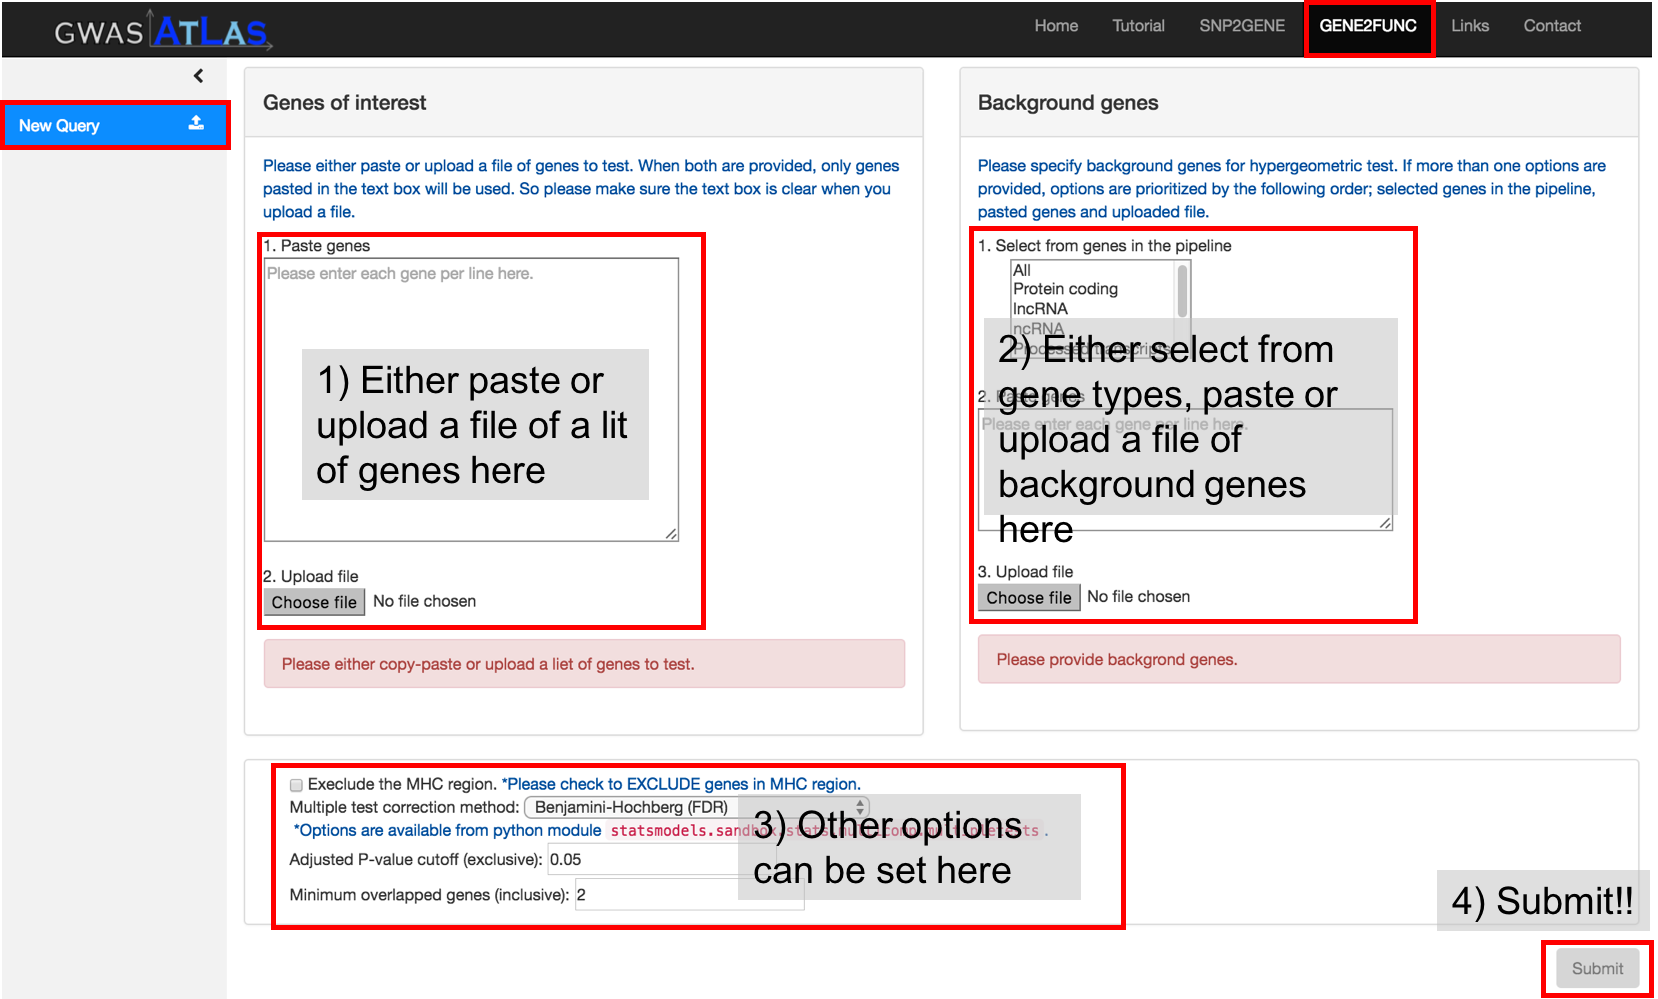
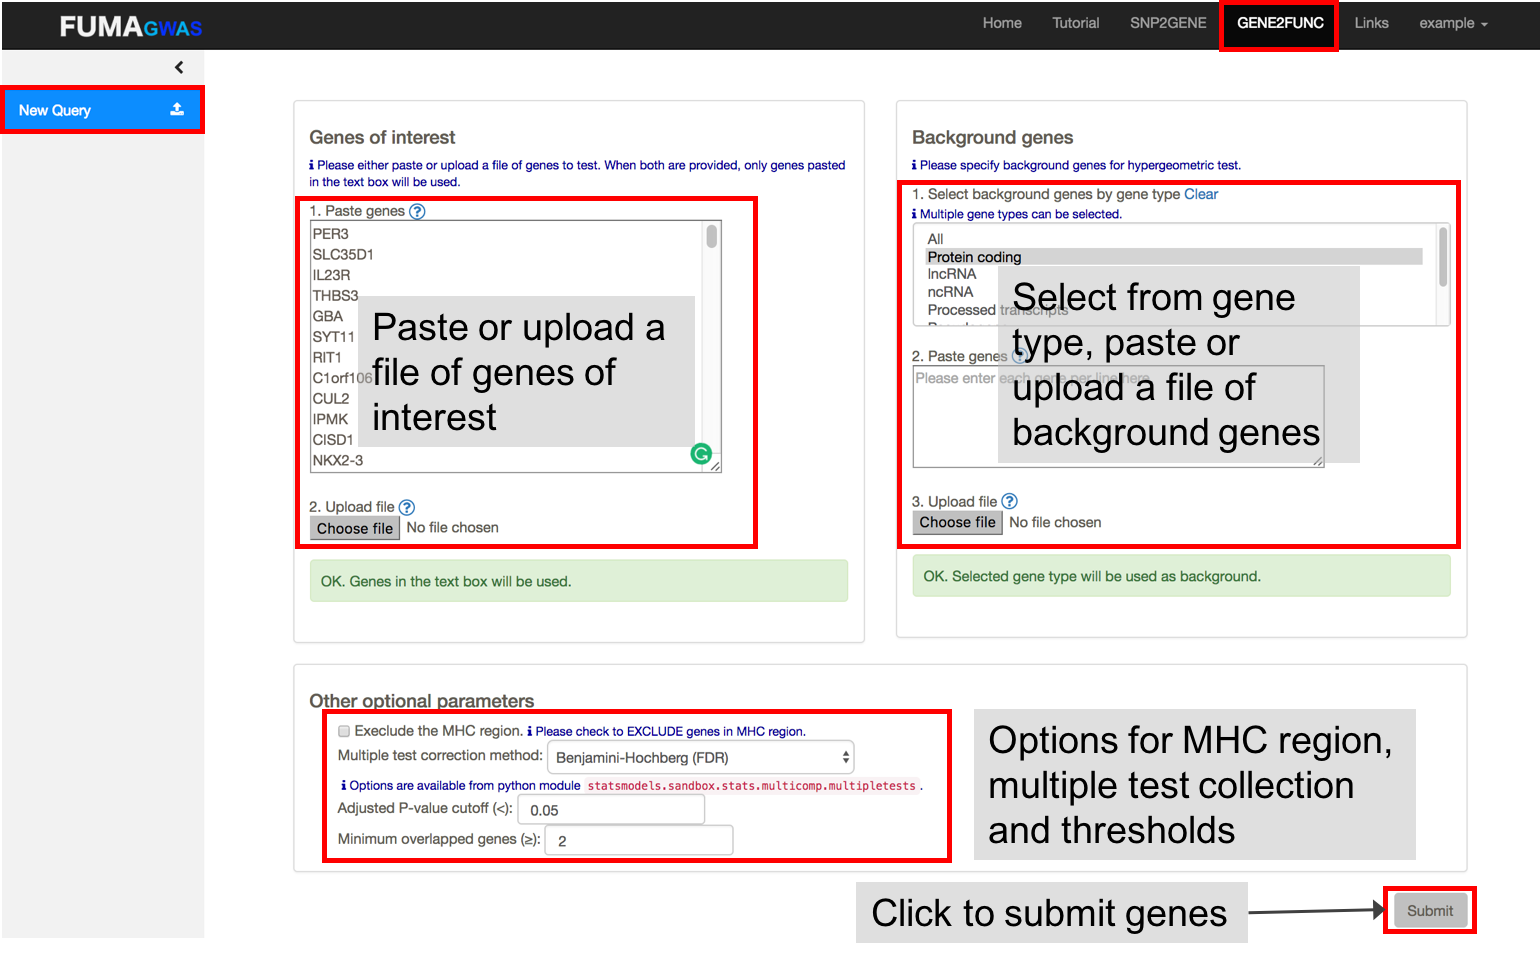
Tutorial Quick-start update

diff --git a/resources/views/pages/tutorial.blade.php b/resources/views/pages/tutorial.blade.php
@@ -17,7 +17,6 @@
         // $(hashid).show();
         $('a[href*="'+hashid+'"]').trigger('click');
       }else{
-
         $('.subside a').each(function(){
           if($(this).attr("href")==hashid){
             var parent = '#'+$(this).parent().attr("id").replace("sub", "");
@@ -28,21 +27,13 @@
         });
       }
     }
+
+    $('.infoPop').popover();
   });
 
-  // function onScroll(event){
-  //   var scrollPos = $(document).scrollTop();
-  //   $('#sidebar.nav li a').each(function(){
-  //     var curLink = $(this);
-  //     var refElement = $(curLink.attr("href"));
-  //     if (refElement.position().top <= scrollPos && refElement.position().top + refElement.height() > scrollPos){
-  //       $('#sidebar.nav').find(".active").removeClass("active");
-  //       $(this).parent().addClass("active");
-  //     }
-  //   });
-  // }
 </script>
 @stop
+
 @section('content')
 <div id="wrapper" class="active">
 <div id="sidebar-wrapper">
@@ -54,7 +45,7 @@
     <li><a href="#quick-start">Quick Start<span class="sub_icon glyphicon glyphicon-info-sign"></span></a></li>
       <div class="subside" id="quick-startsub">
         <a href="#getCandidate">Get candiates</a>
-        <a href="#geneQuery">Qury gene functions</a>
+        <a href="#geneQuery">Gene functions</a>
       </div>
     <li><a href="#snp2gene">SNP2GENE<span class="sub_icon glyphicon glyphicon-info-sign"></span></a></li>
       <div class="subside" id="snp2genesub">
@@ -72,90 +63,104 @@
   </ul>
 </div>
 
-
-<!-- <div class="row"> -->
-  <!-- <div class="col-md-2" id="leftCol">
-    <ul class="nav nav-stacked" id="sidebar">
-      <li class="active"><a href="#overview">Overview</a></li>
-      <li><a href="#quick-start">Quick Start</a></li>
-      <li><a href="#snp2gene">SNP2GENE</a></li>
-      <ul class="nav nav-stacked" id="snp2geneSub">
-        <li><a href="#prepare-input-files">Prepare Input Files</a></li>
-        <li><a href="#parameters">Parameters</a></li>
-        <li><a href="#submit-job">Submit a New Job</a></li>
-        <li><a href="#outputs">Outputs</a></li>
-      </ul>
-      <li><a href="#gene2func">GENE2FUNC</a></li>
-    </ul>
-  </div> -->
-
   <!-- <div class="col-md-10"> -->
 <div id="page-content-wrapper">
   <div class="page-content inset">
     <div id="test"></div>
-    <div id="overview" class="sidePanel container" style="padding-top:50;">
-      <h3>Overview of the GWAS ATLAS</h3>
+    <div id="overview" class="sidePanel container" style="padding-top:50px;">
+      <h3>Overview of the FUMA GWAS</h3>
       <div style="margin-left: 40px;">
         <p>The platform mainly consists of two separate process, SNP2GENE and GENE2FUNC.</p>
-        <p>To annotate and obtain candidates from your GWAS summary statistics, go to <a href="/IPGAP/snp2gene"><strong>SNP2GENE</strong></a> which compute LD structure,
-          annotate SNPs, and prioritize candidate genes.</p>
-        <p>If you already have a list of genes, go to <a href="/IPGAP/gene2func"><strong>GENE2FUNC</strong></a> to check expressiion pattern and shared molecular functions.<p/>
+        <p>To annotate and prioritize SNPs and genes from your GWAS summary statistics, go to <a href="/IPGAP/snp2gene"><strong>SNP2GENE</strong></a> which compute LD structure,
+          annotate functions to SNPs, and prioritize candidate genes.</p>
+        <p>If you already have a list of genes, go to <a href="/IPGAP/gene2func"><strong>GENE2FUNC</strong></a> to check expression pattern and shared molecular functions.<p/>
         <br/>
-        <img src="{{ URL::asset('/image/pipeline.png') }}" width="500" height="730" align="middle">
+        <img src="{{ URL::asset('/image/pipeline.png') }}" width="600" align="middle">
       </div>
     </div>
 
-    <div id="quick-start" class="sidePanel container" style="padding-top:50;">
+    <div id="quick-start" class="sidePanel container" style="padding-top:50px;">
       <h2>Quick Start</h2>
-      <!-- <p>In this page, we quickly go through what you can do and what you can get from GWAS ATLAS.
-        You will get a minimum knowledge of the GWAS ATLAS and will be able to start using.
-        Whenever you get questions, please go back to tutorial for detail explanations.
-      </p> -->
       <div style="margin-left: 40px;">
+        <h3>General Information</h3>
+          <p>
+            Each page will contain information and description of inputs and results to help you understand without go through entire tutorial.<br/>
+            <div style="padding-left: 40px">
+              <span class="info"><i class="fa fa-info"></i> This is information of inputs or results.</span><br/><br/>
+              <a class="infoPop" data-toggle="popover" data-content="This popuover will show brief description."><i class="fa fa-question-circle-o fa-lg"></i></a> :click this question mark to display brief description.<br/><br/>
+              <span class="alert alert-info" style="padding: 5px;">
+                This is for optional inputs/parameters.
+              </span><br/><br/>
+              <span class="alert alert-success" style="padding: 5px;">
+                This is the message if everything is fine.
+              </span><br/><br/>
+              <span class="alert alert-danger" style="padding: 5px;">
+                This is the message if the input/parameter is mandatory and not given or invalid input is given.
+              </span><br/><br/>
+              <span class="alert alert-warning" style="padding: 5px;">
+                This is the warning message for the input/parameter. It can be ignored but need to be paid an attention.
+              </span><br/><br/>
+            </p>
+          </div>
+
         <h3 id="getCandidate">Get candidates from your own GWAS summary statistics</h3>
         <p>You can obtain functional annotation of SNPs and map them to genes.
-          By setting parameter, you are also able to prioritize genes by your criterion.</p>
+          By setting parameters, you are also able to prioritize genes by your criterion.</p>
         <div style="margin-left: 40px">
-          <p><strong>1. Go to <a href="/IPGAP/snp2gene"><strong>SNP2GENE</strong></a> and upload GWAS summary statistics file.</strong><br/>
-            A variety of input formats are supported. Please refer the section of input files of this tutorial <a href="/IPGAP/tutorial#prepare-input-files">here</a> for details.
-            If you are not sure, chose <code>Plain text</code> which fits most of the headers.<br/>
-            Optionally, if you already know lead SNPs and you want to use them as lead SNPs, you can upload a file with 3 column; rsID, chromosome and position.<br/>
-            In addition, if you are interested in specific genomic regions, you can also provide them by uploading a file with 3 columns; chromosome, start and end position.<br/>
+          <p><h4><strong>1. Registration/Login</strong></h4>
+            If you haven't registered yet, please do so from <a href='/register'>Register</a>.<br/>
+            Before you submit your GWAS summary statistics, please log in to your account.<br/><br/>
+            <img src="{!! URL::asset('/image/homereg.png') !!}" style="max-width:80%"/><br/>
           </p>
 
-          <p><strong>2. Set parameters.</strong><br/>
+          <p><h4><strong>2. Submit new job at <a href="{{ Config::get('app.subdir') }}/snp2gene">SNP2GENE</a></strong></h4>
+            GWAS summary statistics is a mandatory input and a variety of file formats are supported.
+            Please refer the section of input files of this tutorial <a href="{{ Config::get('app.subdir') }}/tutorial#prepare-input-files">here</a> for details.
+            If your file is an ouput of PLINK, SNPTEST or METAL, you can directory submit the file (no need to chagne columns).<br/>
+            Optionally, if you already know lead SNPs and you want to use them as lead SNPs, you can upload a file with 3 columns; rsID, chromosome and position.<br/>
+            In addition, if you are interested in specific genomic regions, you can also provide them by uploading a file with 3 columns; chromosome, start and end position.<br/><br/>
+            <img src="{!! URL::asset('/image/newjobfile.png') !!}" style="max-width:80%"/><br/>
+          </p>
+
+          <p><h4><strong>3. Set parameters</strong></h4>
             Please check your parameters carefully. Default setting perform identification of lead SNPs at r2=0.6 and maps SNPs to genes up to 10kb apart.<br/>
-            To filter SNPs by functional annotations and use eQTL mapping, please refer the parmeters section from <a href="/IPGAP/tutorial#parameters">here</a>.<br/>
-            At the end of the parameters, users can submit e-mail address with job title. This is not mandatory, but when e-mail address is provided, we will send a email when the job is done.
-            This would be useful since a job can take up to 1 hour, depending on inputs and parameters.
-            The advantage to provide both e-mail address and job title is that you will be able to query your results by them later on without bookmarking the link.
-            When e-mail address is not provided, you have to bookmark the link.
+            To filter SNPs by functional annotations and use eQTL mapping, please refer the parmeters section from <a href="{{ Config::get('app.subdir') }}/tutorial#parameters">here</a>.<br/>
+            If all inputs are valid, 'Submit Job' button will be activated. Once you submit a job, this will be listed in My Jobs.<br/><br/>
+            <img src="{!! URL::asset('/image/submitjob.png') !!}" style="max-width:70%"/><br/>
           </p>
 
-          <p><strong>3. Check your results.</strong><br/>
-            When e-mail is provided, the e-mail will be sent with the link to the results page. you can also query your results from <strong>Qeury Existing Job</strong> at <a href="/IPGAP/snp2gene"><strong>SNP2GENE</strong></a>.<br/>
-            The result page display 6 additional side bars.<br/>
-            <strong>Job info</strong>: The table of job information. If error occures during the job, that will be shown in this page.<br/>
-            <strong>Genome-wide plots</strong>: Manhattan plot and Q-Q plot for GWAS sumary statistics and gene-based test by MAGMA.<br/>
-            <strong>Summary of results</strong>: Summarised results such as the number of candidate SNPs and mapped genes for overall and per genomic interval.<br/>
-            <strong>Tables</strong>: Tables of lead SNPs, genomic intervals, candidate SNPs with annotations, eQTLs (only when eQTL mapping is performed), mapped genes and GWAS-catalog reported SNPs matched with candidate SNPs.<br/>
-            <strong>Downloads</strong>: Download tables as text files.<br/>
-            <strong>Regional plot</strong>: Create regional plot with annotation (optionally) for a selected lead SNP or genomic interval.<br/>
+          <p><h4><strong>4. Check your results</strong></h4>
+            One process is done, you will receive an email.
+            Unless an error occured during the process, the email includes the link to results page (this again requires login).
+            You can also access to the results page from My Job list.
+
+            The result page display 4 additional side bars.<br/>
+            <strong>Genome-wide plots</strong>: Manhattan plots and Q-Q plots for GWAS sumary statistics and gene-based test by MAGMA.<br/>
+            <strong>Summary of results</strong>: Summarised results such as the number of candidate SNPs and mapped genes for overall and per genomic loci.<br/>
+            <strong>Results</strong>: Tables of lead SNPs, genomic risk loci, candidate SNPs with annotations, eQTLs (only when eQTL mapping is performed), mapped genes and GWAS-catalog reported SNPs matched with candidate SNPs.
+            You can also create interactive regional plot with functional annotations from this tab.<br/>
+            <strong>Downloads</strong>: Download Results as text files.<br/>
+            Details for each panel are described in this tutorial <a href="{{ Config::get('app.subdir') }}/tutorial#outputs">here</a>.<br/><br/>
+            <img src="{!! URL::asset('/image/result.png') !!}" style="max-width:70%"/><br/><br/>
+            <img src="{!! URL::asset('/image/resultpanels.png') !!}" style="max-width:90%"/><br/>
           </p>
         </div>
         <br/>
-        <h3 id="geneQuery">Identify tissue specificity and shared biological functions of a list of genes</h3>
-        <p>In the <a href="/IPGAP/gene2func"><strong>GENE2FUNC</strong></a>, you can check expression in different tissue types, tissue specificity and enrichment of publicly available gene sets of a list of genes.
-          You can use mapped genes from SNP2GENE by clicking the button in the result page (Tables tab).<br/>
-          You have to provide a list of genes of interest and background genes (for hypergeometric tests).<br/>
+        <h3 id="geneQuery">Tissue specific gene expression and shared biological functions of a list of genes</h3>
+        <p>In the <a href="{{ Config::get('app.subdir') }}/gene2func"><strong>GENE2FUNC</strong></a>, you can check expression in different tissue types, tissue specificity and enrichment of publicly available gene sets of genes of interest.<br/>
+          You can use mapped genes from SNP2GENE by clicking the button in the result page (Results tab).<br/>
+          You have to provide a list of genes of interest and background genes (for hypergeometric test).<br/><br/>
+          <img src="{!! URL::asset('/image/gene2funcSubmit.png') !!}" style="max-width:70%"/><br/>
         </p>
         <div style="margin-left: 40px">
           <p>
             Once genes are submitted, four extra side bars wil be shown.<br/>
             <strong>Gene Expression</strong>: The heatmap of gene expression of 53 tissue types from GTEx.<br/>
             <strong>Tissue Specificity</strong>: The bar plots of enrichment of differentially expressed genes across tissue types.<br/>
-            <strong>Gene Sets</strong>: Plots and tables of enrichment of gene sets.<br/>
+            <strong>Gene Sets</strong>: Plots and tables of enriched gene sets.<br/>
             <strong>Gene Table</strong>: Table of input genes with lnks to OMIM, Drugbank and GeneCards.<br/>
+            Details for each panel are described in this tutorial <a href="{{ Config::get('app.subdir') }}/tutorial#gene2funcOutputs">here</a>.<br/><br/>
+            <img src="{!! URL::asset('/image/gene2funcResults.png') !!}" style="max-width:70%"/><br/>
           </p>
         </div>
         <br/>

diff --git a/resources/views/includes/header.blade.php b/resources/views/includes/header.blade.php
@@ -16,9 +16,9 @@
   <div class="container-fluid">
     <div class="navbar-header" style="padding-left: 30px;">
       <!-- <a class="navbar-brand" href="{{ Config::get('app.subdir') }}/"><span style="color: #1E90FF; font-size: 130%;">IPGAP</span></a> -->
-      <a class="navbar-brand" href="{{ Config::get('app.subdir') }}/" style="padding-top: 15px;">
-        <!-- <img src="{!! URL::asset('image/fuma.png') !!}" height="45px;"> -->
-        <span style="color:#fff; font-size:30px;">FUMA</span>
+      <a class="navbar-brand" href="{{ Config::get('app.subdir') }}/" style="padding-top: 5px;">
+        <img src="{!! URL::asset('image/fuma.png') !!}" height="50px;">
+        <!-- <span style="color:#fff; font-size:30px;">FUMA</span> -->
       </a>
     </div>
 
